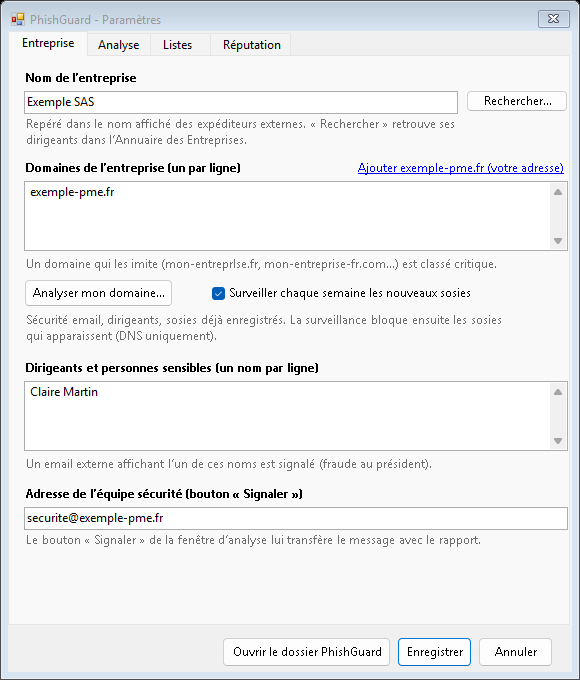
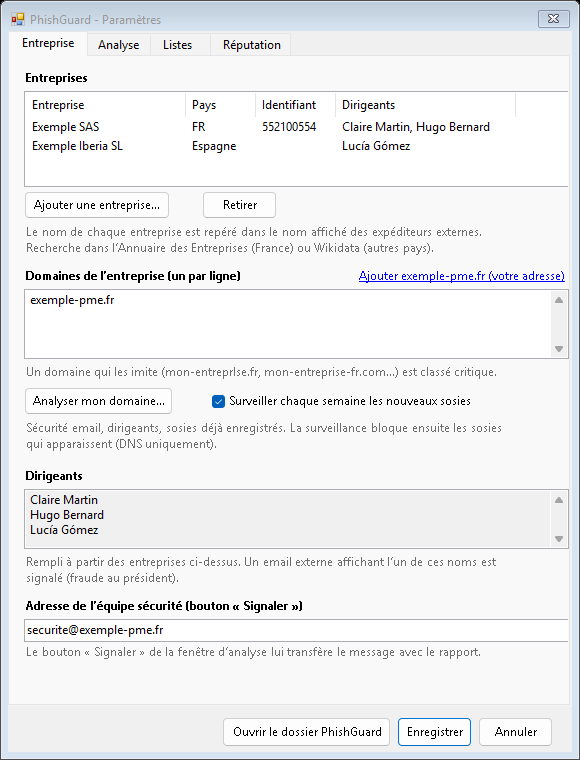
Capture des paramètres mise à jour
Claude-Session: https://claude.ai/code/session_01JR6guzjwf4j7ewQ2utYytd

diff --git a/README.md b/README.md
@@ -34,7 +34,7 @@ usurpation d'identité, **fraude au président**, **faux RIB**, liens piégés, 
 
 | Signalement envoyé à l'équipe sécurité | Assistant de démarrage | Paramètres |
 |---|---|---|
-| <img src="docs/images/signalement.png" alt="Rapport de signalement de phishing en HTML envoyé à l'équipe sécurité" width="280"> | <img src="docs/images/assistant.png" alt="Assistant de premier lancement de PhishGuard" width="280"> | <img src="docs/images/parametres.png" alt="Paramètres de PhishGuard : entreprise, dirigeants, analyse du domaine" width="280"> |
+| <img src="docs/images/signalement.png" alt="Rapport de signalement de phishing en HTML envoyé à l'équipe sécurité" width="280"> | <img src="docs/images/assistant.png" alt="Assistant de premier lancement de PhishGuard" width="280"> | <img src="docs/images/parametres.png" alt="Paramètres de PhishGuard : plusieurs entreprises, dirigeants, domaines, analyse du domaine" width="280"> |
 
 *Captures générées automatiquement par le vrai moteur d'analyse, sur des messages d'exemple fictifs.*
 
